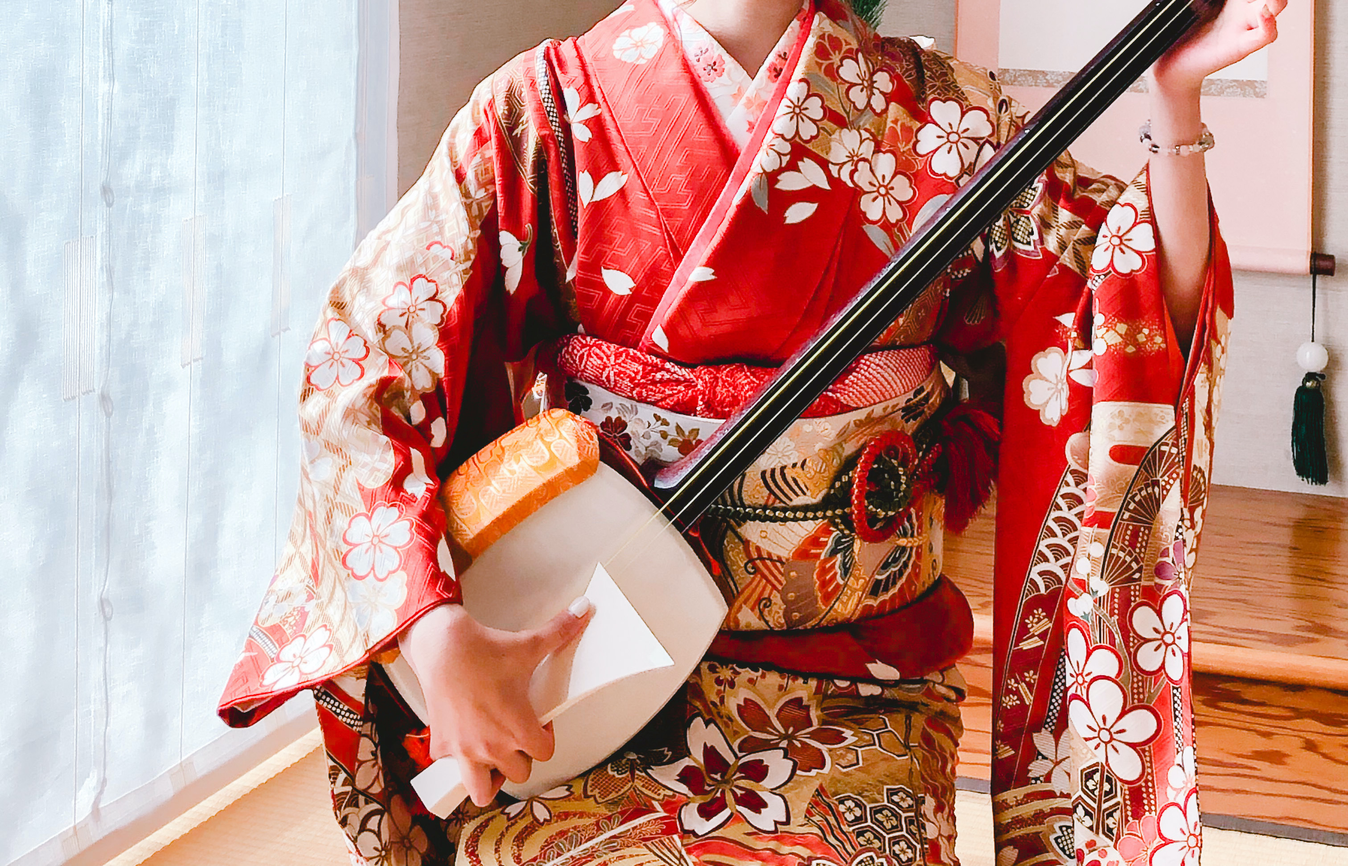
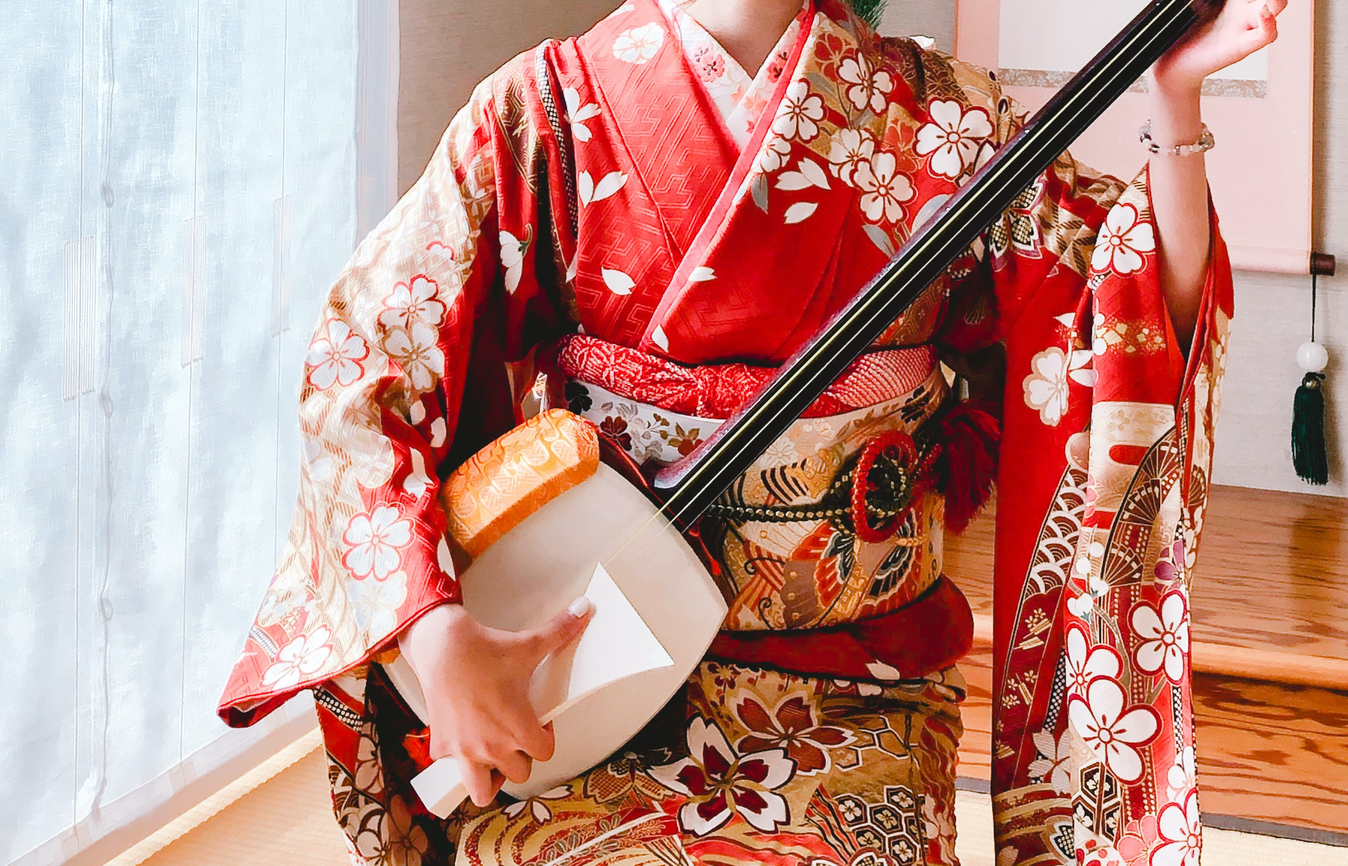
写真容量の圧縮

diff --git a/index.html b/index.html
@@ -98,7 +98,7 @@
                         </div>
                         <div class="swiper-slide">
                             <div class="feature-block">
-                                <img src="image/feature-3.JPEG" id="feature-3" alt="" class="feature-image">
+                                <img src="image/feature-3.jpeg" id="feature-3" alt="" class="feature-image">
                                 <div class="feature-sentence-parent">
                                     <div class="feature-sentence">
                                         <div class="feature-subtitle">
